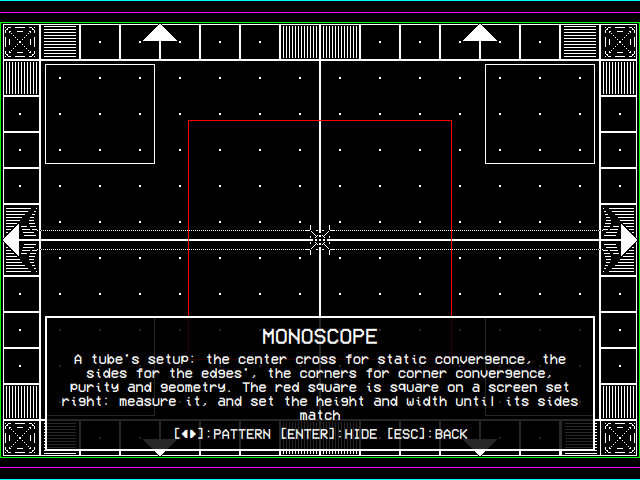
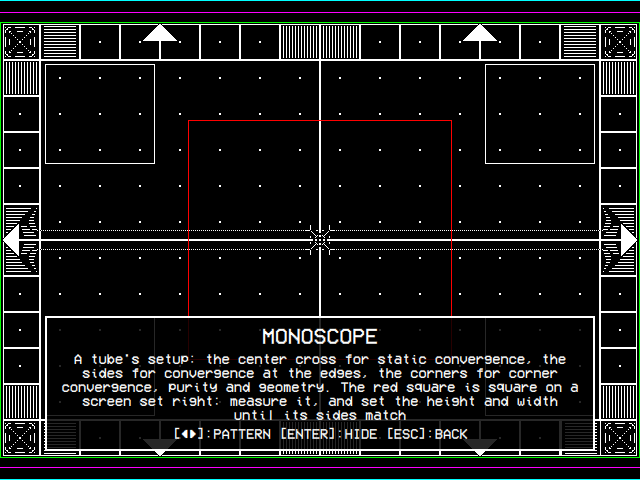
docs: retake the screenshots of the menus fixed since the last retake
Eight pictures show screens that changed with the latest fixes and are
taken again in the scenes they showed before. Add to Playlist shows both
NEW rows under the three playlists, the video's own menu reads Local
Files' lists, Ambient:Mode's Audio row reads VIDEO AUDIO, TV / Movie's
page opens with Scaling, Transparent Background and Info Screen above the
module rows with the hint bar at its own size, Cabinet Lock's hint names
ON/OFF, the question before the cabinet locks draws its answers a pixel
lower, the License page keeps its scroll marks in its box, and the
Monoscope's help reads convergence at the edges. The alt texts of the TV
/ Movie picture name the rows it shows now. The Local Files tree in its
backgrounds, skins and templates, the logo under the video's menu and
the Unlock Buttons wait show screens that are unchanged and are left as
they were.

Changed region(s): [[0.0938, 0.75, 0.9062, 0.875]]

diff --git a/docs/wiki/Modules.md b/docs/wiki/Modules.md
@@ -4,7 +4,7 @@ Everything OSD/OS plays comes in through a module. **TV / Movie** modules are so
 
 <table>
 <tr><th width="50%">The main menu</th><th width="50%">Settings → TV / Movie</th></tr>
-<tr><td><img src="https://raw.githubusercontent.com/mehmetraif/OSD-OS/main/docs/screenshots/main-menu.png" width="100%" alt="The main menu" /></td><td><img src="https://raw.githubusercontent.com/mehmetraif/OSD-OS/main/docs/screenshots/settings-modules.png" width="100%" alt="Settings → TV / Movie further down: Info Screen, then the MODULES heading and each video module's row with its ON or OFF: Local Files selected, Playlists, Plex, Jellyfin, Emby and YouTube" /></td></tr>
+<tr><td><img src="https://raw.githubusercontent.com/mehmetraif/OSD-OS/main/docs/screenshots/main-menu.png" width="100%" alt="The main menu" /></td><td><img src="https://raw.githubusercontent.com/mehmetraif/OSD-OS/main/docs/screenshots/settings-modules.png" width="100%" alt="Settings → TV / Movie: Scaling, Transparent Background and Info Screen, then the MODULES heading and each video module's row with its ON or OFF: Local Files selected, Playlists, Plex and Jellyfin" /></td></tr>
 <tr><td>The modules turned on. Select opens one; back opens Settings.</td><td>A module's row under Modules opens its settings.</td></tr>
 </table>
 

diff --git a/docs/wiki/Settings.md b/docs/wiki/Settings.md
@@ -54,7 +54,7 @@ Back on the main menu opens Settings (`[ESC]:SETTINGS` in the hint bar), and so 
 
 **The file browser** that Music File and Logo Image open is Local Files' tree. At its top is the default (**No File**, **OSD/OS Logo**), then **Home**, **Media** (`/media`), **Drives** (`/run/media/<user>`), **Volumes** (`/Volumes`, on a Mac) and **Root** (`/`); on Windows, in Root's place, each drive by its letter (**C:**, **D:**).
 
-<img src="https://raw.githubusercontent.com/mehmetraif/OSD-OS/main/docs/screenshots/settings-modules.png" width="100%" alt="TV / Movie's page further down: Info Screen, then the MODULES heading and each video module's row with its ON or OFF: Local Files selected, Playlists, Plex, Jellyfin, Emby and YouTube" />
+<img src="https://raw.githubusercontent.com/mehmetraif/OSD-OS/main/docs/screenshots/settings-modules.png" width="100%" alt="TV / Movie's page: Scaling, Transparent Background and Info Screen, then the MODULES heading and each video module's row with its ON or OFF: Local Files selected, Playlists, Plex and Jellyfin" />
 
 ### The video modules
 
